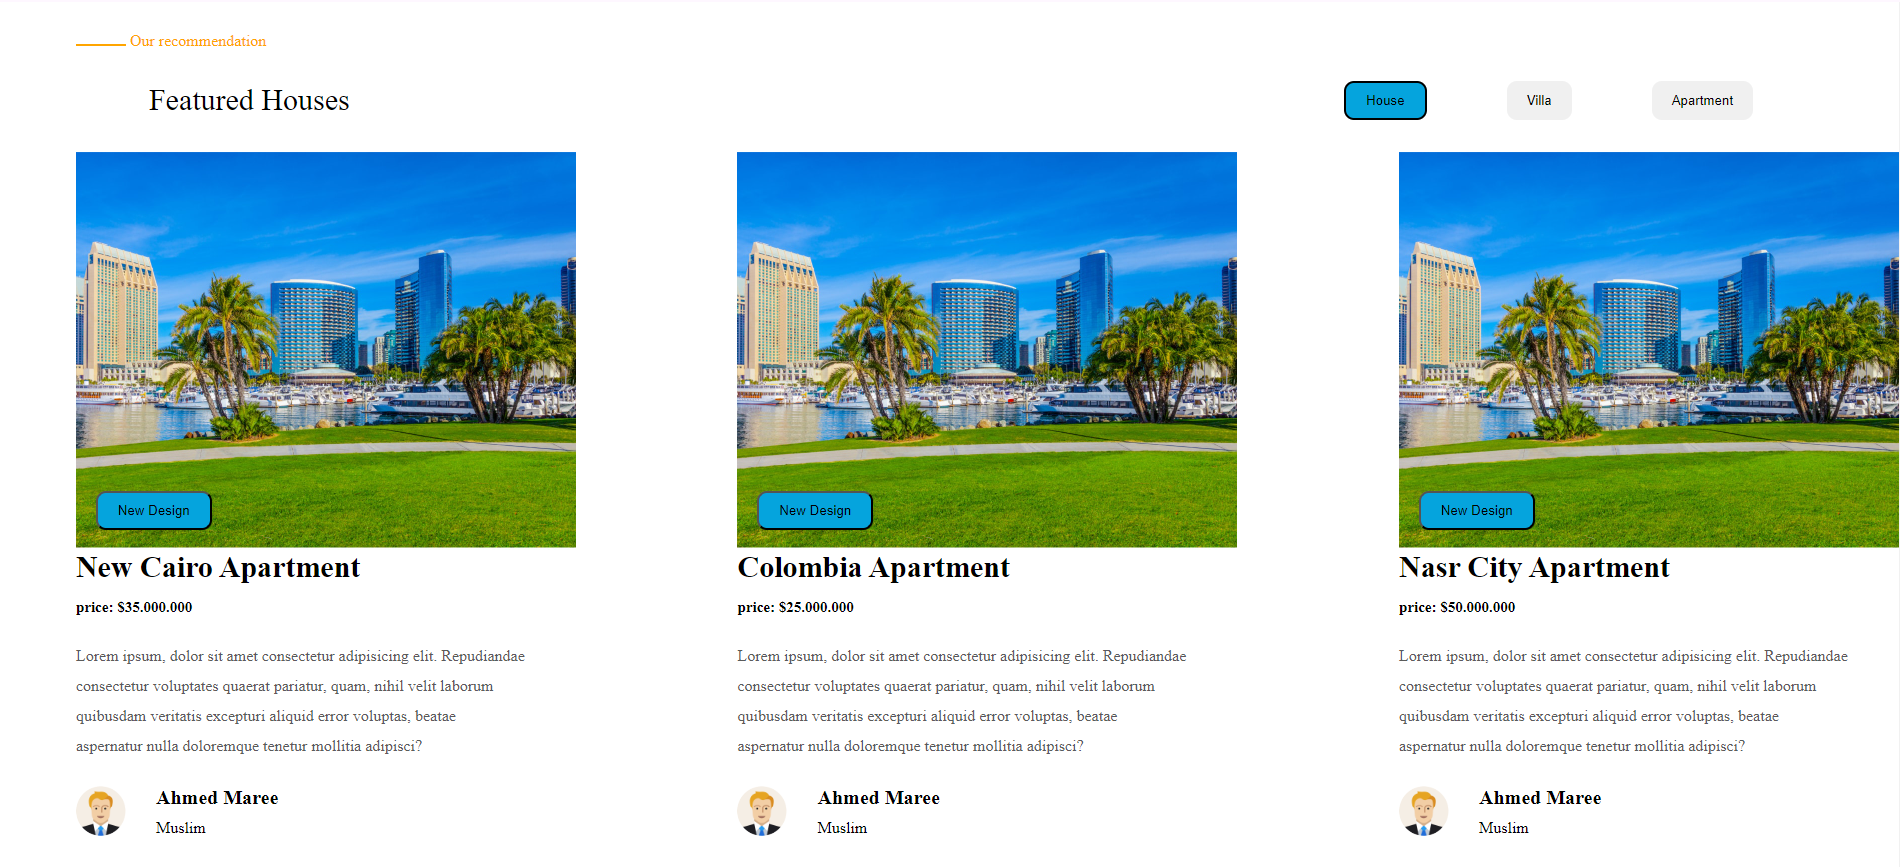
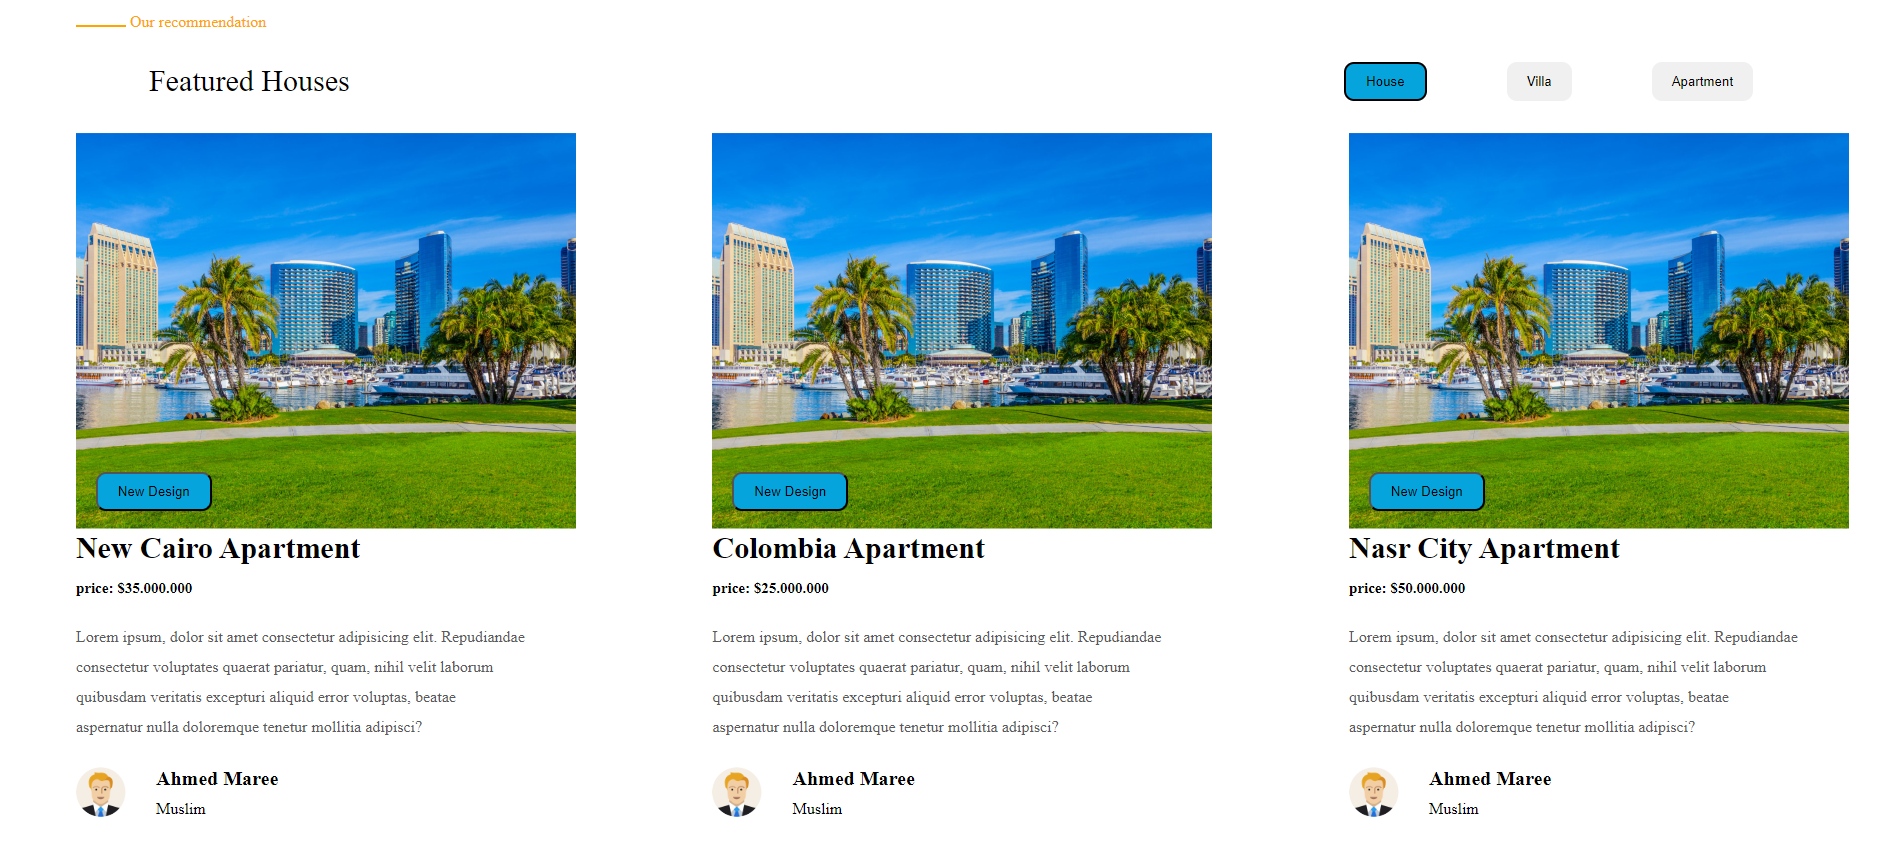
Update

diff --git a/css/style.css b/css/style.css
@@ -147,7 +147,7 @@ div.distance {
     height: 150px;
 }
 
-/* start left featured house section */
+/* start featured house section */
 
 section.featured-houses {
     margin-left: var(--margin-left);
@@ -194,10 +194,11 @@ section.featured-houses div.featured-list-title div.list-features button.house-b
     border: 2px solid black;
 }
 
+/* cart creation */
 section.featured-houses div.cart-container-list {
     display: flex;
     justify-content: space-between;
-    
+    margin-right: 50px;
 }
 
 section.featured-houses div.cart-container-list div.cart-container {
